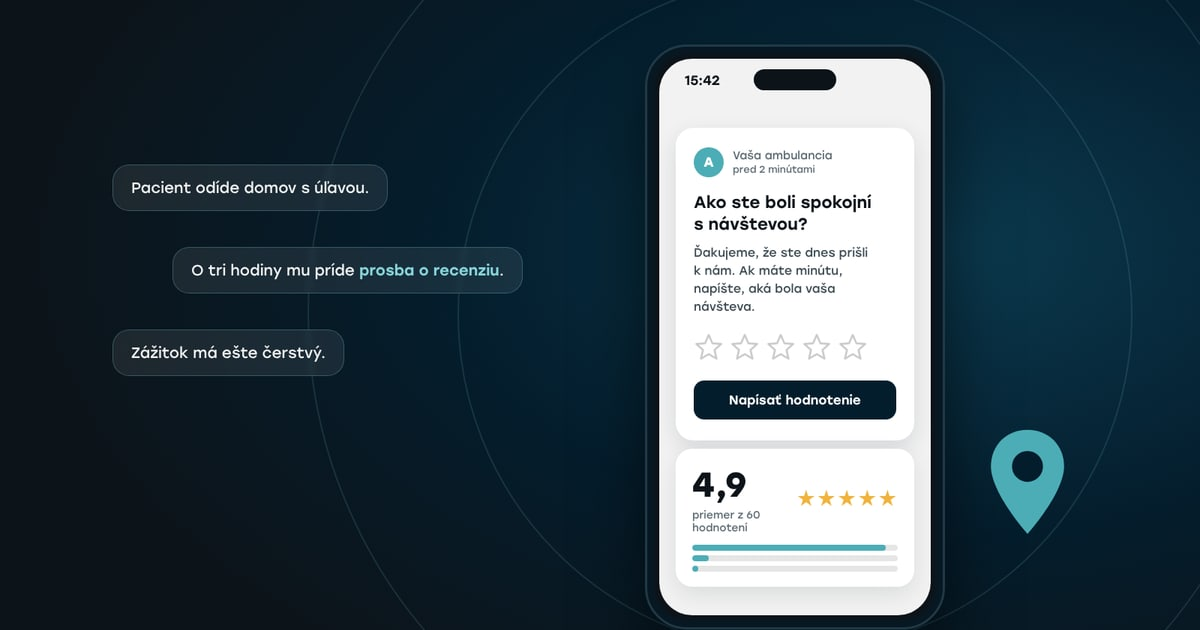
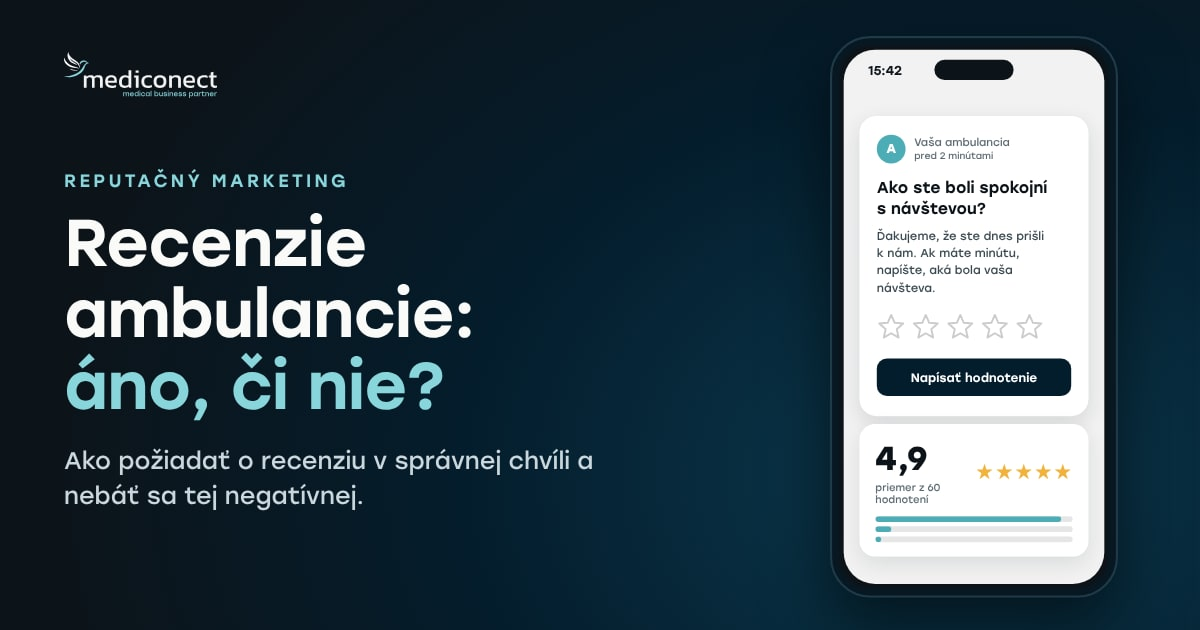
Blog recenzie: obrazok na zdielanie s nadpisom
Claude-Session: https://claude.ai/code/session_01CY1rGgq3dxTVGRX1fcFYLz

diff --git a/CHANGELOG.md b/CHANGELOG.md
@@ -1,3 +1,15 @@
+## 2026-11-20 – Blog recenzie: obrázok na zdieľanie s nadpisom
+
+**Čo sa zmenilo**: `public/images/blog/recenzie-ambulancie/cover-og.jpg` (1200 × 630) má teraz vľavo logo Mediconectu a nadpis „Recenzie ambulancie: áno, či nie?", vpravo telefón so žiadosťou o hodnotenie. Titulná fotka článku (`cover.webp`) sa nemenila.
+
+**Prečo**: Článok pôjde aj na LinkedIn; náhľad odkazu s nadpisom v obrázku je v časovej osi čitateľnejší. Pre samostatný obrázkový príspevok na LinkedIn vznikla aj verzia 1080 × 1350 (mimo repozitára, odovzdaná Viktorovi).
+
+**Dotknuté súbory**: `public/images/blog/recenzie-ambulancie/cover-og.jpg`, `CHANGELOG.md`.
+
+**Čo treba doplniť ručne**: po zverejnení obnoviť náhľad v LinkedIn Post Inspector a vo Facebook Sharing Debugger, ak by sa odkaz zdieľal skôr.
+
+**Pozor na**: LinkedIn a Facebook si náhľad ukladajú; ak sa odkaz zdieľa pred zverejnením článku, zobrazí sa chyba alebo starý obrázok, kým sa náhľad neobnoví.
+
 ## 2026-11-20 – Titul Viktora: CEO, Mediconect (namiesto Director)
 
 **Čo sa zmenilo**: Pri PhDr. Víťazoslavovi Struhárovi je titul „CEO, Mediconect" v karte autora pod článkami a v štruktúrovaných dátach článkov (`content/authors.ts`, `jobTitle`), a „CEO" v kontaktnom okne (`ContactModal`) a na ďakovnej stránke (`/dakujeme`). Na stránke Správa a ochrana majetku ostáva jeho titul v kontexte MyMedical/MyLife bez zmeny.
